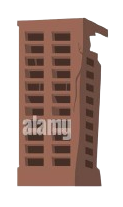
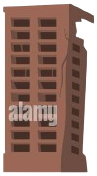
dimensioni sistemate

diff --git a/gioco.py b/gioco.py
@@ -117,7 +117,7 @@ class Aereo:
 class Bomba:
     def __init__(self, vel_x, vel_y, pos_x, pos_y):
         self.image = pygame.image.load('immagini/bomba.png')
-        self.image = pygame.transform.scale(self.image, (20,50))
+        self.image = pygame.transform.scale(self.image, (15,33))
         self.rect = self.image.get_rect()      
         self.rect.topleft = ((pos_x + 45), (pos_y + 30))
         self.b_vel_x = vel_x
@@ -165,11 +165,11 @@ class Casa:
     
     def crea_rect(self, x, n):
         if n == 1:
-            return pygame.Rect(x, 460, 150, 100)
+            return pygame.Rect(x, 470, 120, 80)
         elif n==2:
-            return pygame.Rect(x, 500, 90, 60)
+            return pygame.Rect(x, 510, 70, 55)
         else:
-            return pygame.Rect(x, 400, 90, 160)
+            return pygame.Rect(x, 430, 70, 130)
     
     def controllo_coll(self, nuovo_rect):
         for pos in self.posizione:
@@ -191,14 +191,14 @@ class Casa:
             x,n = pos
             self.image = pygame.image.load(self.image_case[n])
             if n == 1:
-                self.image = pygame.transform.scale(self.image, (150,100))
-                screen.blit(self.image, (x, 460))
+                self.image = pygame.transform.scale(self.image, (120,80))
+                screen.blit(self.image, (x, 470))
             elif n==2:
-                self.image = pygame.transform.scale(self.image, (90,60))
-                screen.blit(self.image, (x, 500))
+                self.image = pygame.transform.scale(self.image, (70,50))
+                screen.blit(self.image, (x, 510))
             else:
-                self.image = pygame.transform.scale(self.image, (90,160))
-                screen.blit(self.image, (x, 400))
+                self.image = pygame.transform.scale(self.image, (70,130))
+                screen.blit(self.image, (x, 430))
             # self.rect = self.image.get_rect()
             # screen.blit(self.image, (510,x))
             
